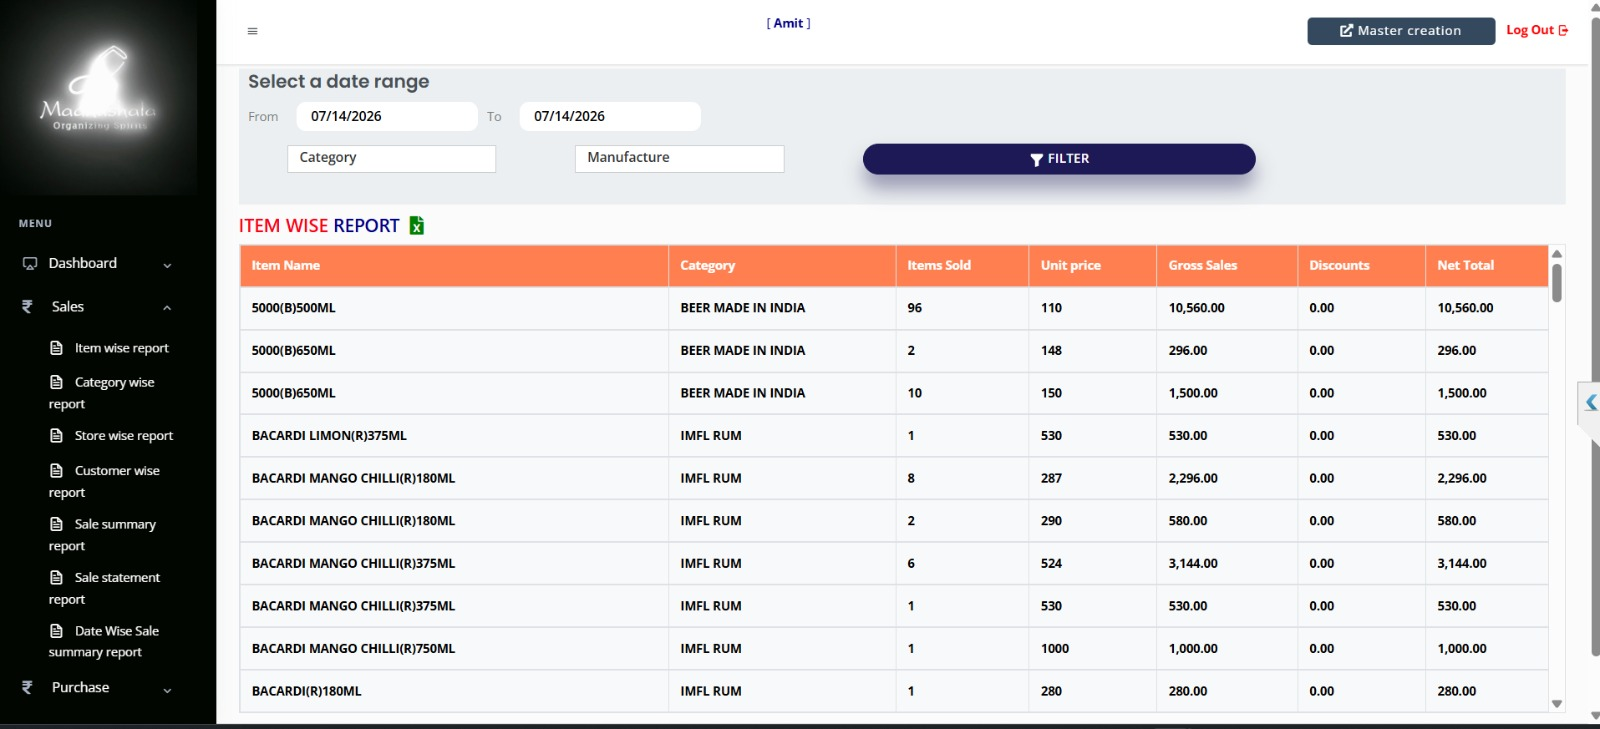
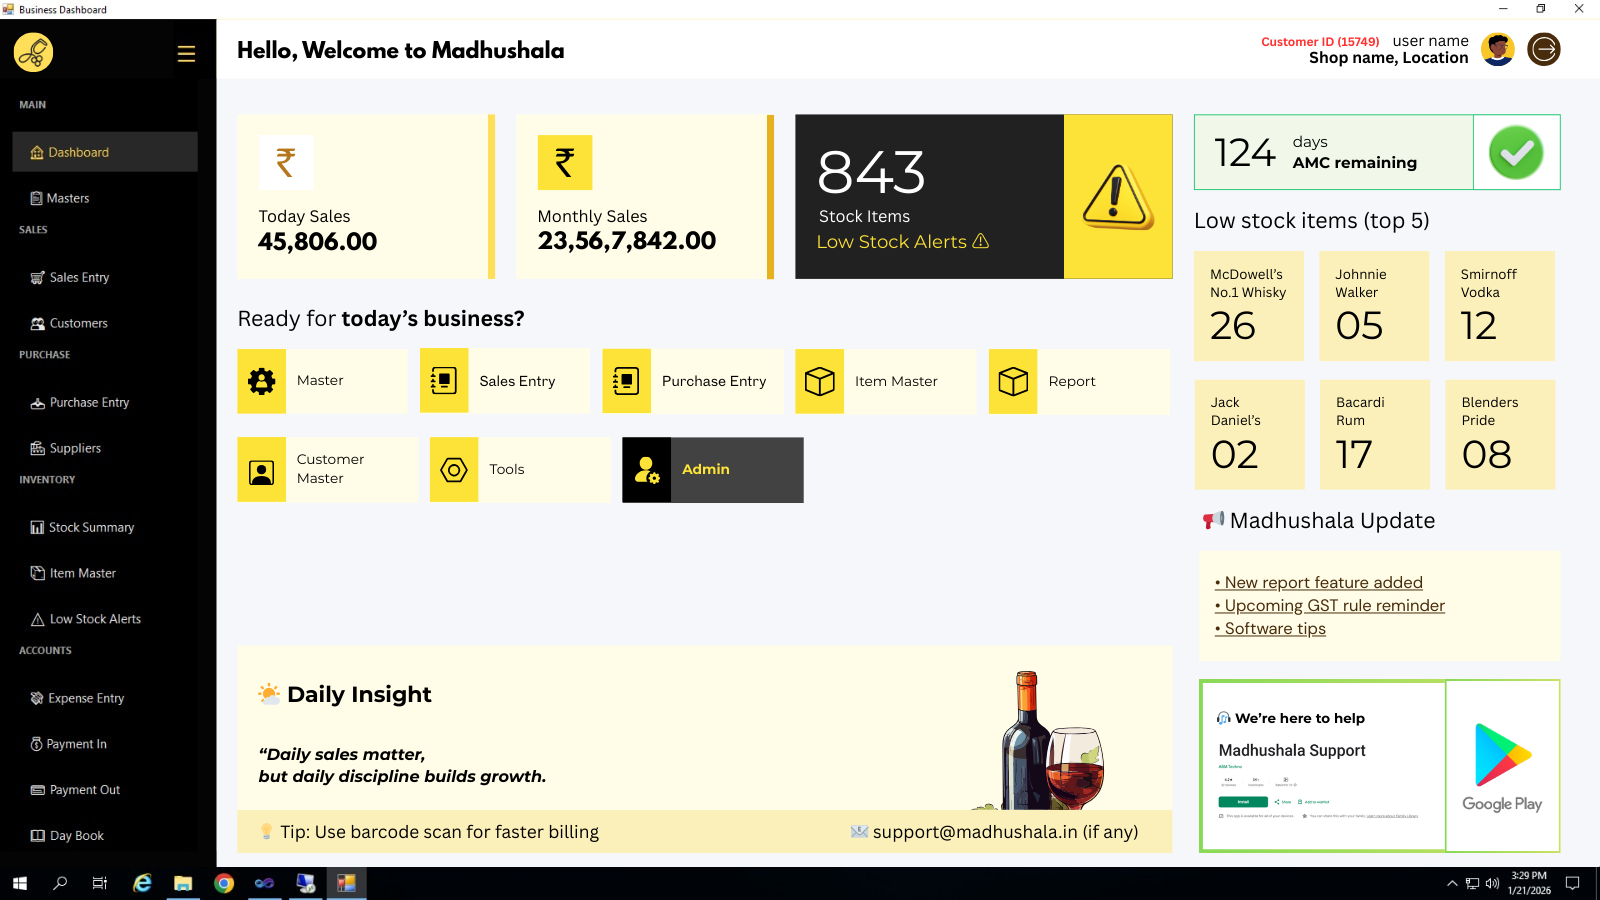
Force Madhushala Pro dashboard image

diff --git a/public/screen.js b/public/screen.js
@@ -248,7 +248,7 @@
   function renderDashboard() {
     scene.innerHTML = `
       <div class="dashboard-image-frame">
-        <img src="assets/images/madhushala-pro-screen.png" alt="Madhushala Pro business dashboard">
+        <img src="assets/images/madhushala-pro-screen.png?v=20260714-pro" alt="Madhushala Pro business dashboard">
       </div>
     `;
   }
